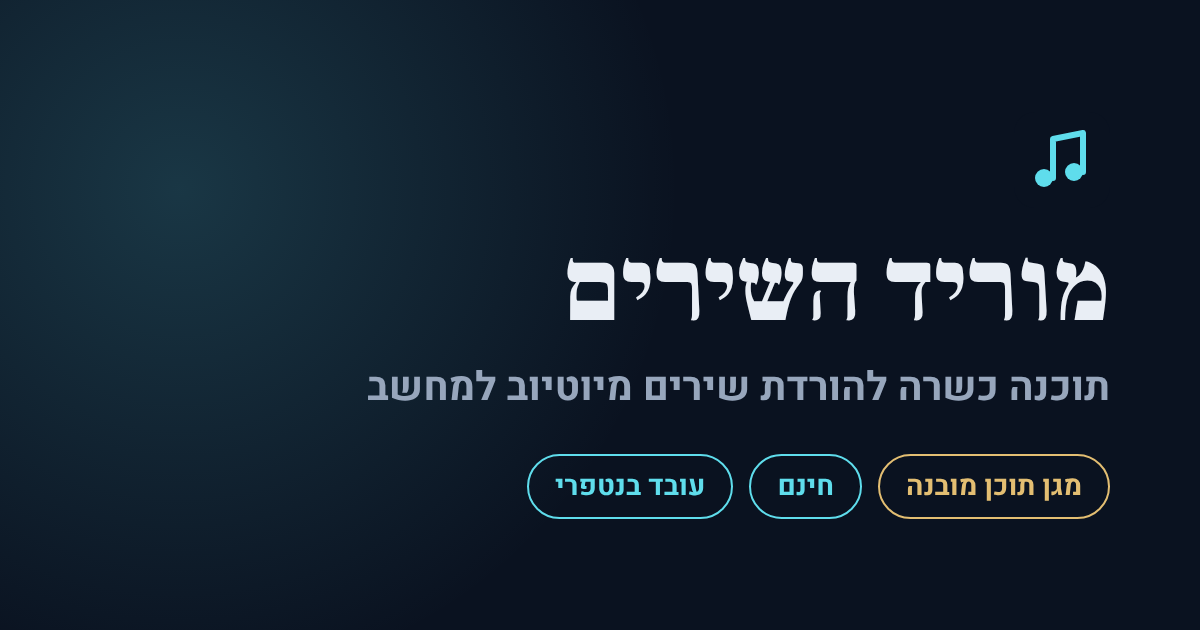
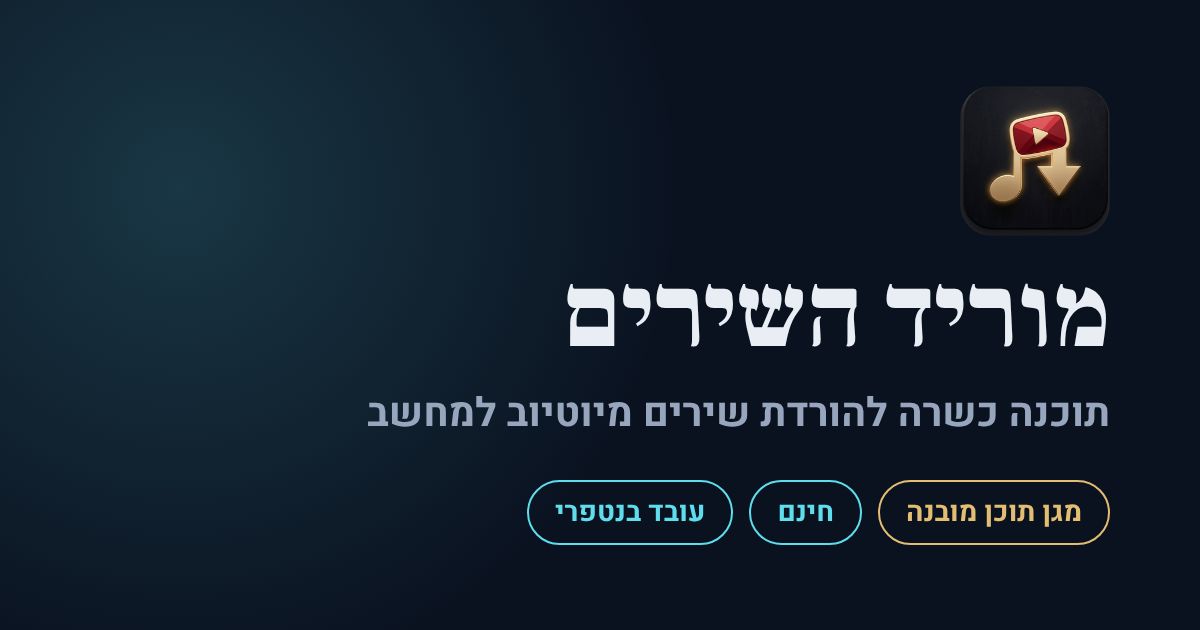
דף הנחיתה: הלוגו של התוכנה בסמל ובתמונת השיתוף
Claude-Session: https://claude.ai/code/session_018MStaUMW1ZQf8AoUs6Dhf3

Changed region(s): [[0.3083, 0.3921, 0.925, 0.7238], [0.4317, 0.7238, 0.925, 0.8746], [0.8017, 0.1508, 0.925, 0.3317]]

diff --git a/index.html b/index.html
@@ -22,7 +22,11 @@
 <meta property="og:image:height" content="630">
 <meta name="twitter:card" content="summary_large_image">
 
-<link rel="icon" href="favicon.svg" type="image/svg+xml">
+<link rel="icon" href="favicon.ico" sizes="any">
+<link rel="icon" href="favicon-48.png" type="image/png" sizes="48x48">
+<link rel="icon" href="favicon-96.png" type="image/png" sizes="96x96">
+<link rel="icon" href="icon-192.png" type="image/png" sizes="192x192">
+<link rel="apple-touch-icon" href="apple-touch-icon.png">
 <link rel="preload" href="fonts/heebo-hebrew-400-normal.woff2" as="font" type="font/woff2" crossorigin>
 <link rel="preload" href="fonts/frank-ruhl-libre-hebrew-900-normal.woff2" as="font" type="font/woff2" crossorigin>
 
@@ -38,6 +42,8 @@
   "inLanguage": "he",
   "softwareVersion": "10.9.1",
   "url": "https://hanyna.github.io/morid/",
+  "image": "https://hanyna.github.io/morid/logo.png",
+  "screenshot": "https://hanyna.github.io/morid/og.png",
   "downloadUrl": "https://github.com/hanyna/morid/releases/latest",
   "offers": { "@type": "Offer", "price": "0", "priceCurrency": "ILS" },
   "author": { "@type": "Person", "name": "חנינה" }
@@ -101,7 +107,7 @@ a{color:var(--cyan)}
 .top{border-bottom:1px solid var(--rule)}
 .top .wrap{display:flex;align-items:center;justify-content:space-between;height:68px}
 .brand{display:flex;align-items:center;gap:10px;text-decoration:none;color:var(--text);font:900 22px/1 var(--serif)}
-.brand img{width:32px;height:32px}
+.brand img{width:36px;height:36px;border-radius:8px}
 .top nav{display:flex;gap:26px}
 .top nav a{color:var(--muted);text-decoration:none;font-size:15px}
 .top nav a:hover{color:var(--text)}
@@ -110,6 +116,7 @@ a{color:var(--cyan)}
 .hero{padding:72px 0 88px;position:relative;overflow:hidden}
 .hero::before{content:"";position:absolute;inset:-30% -10% auto auto;width:720px;height:720px;background:radial-gradient(closest-side,rgba(95,221,236,.10),transparent);pointer-events:none}
 .hero .wrap{display:grid;grid-template-columns:1.05fr 1fr;gap:56px;align-items:center;position:relative}
+.hero-logo{display:block;width:96px;height:96px;margin:0 0 22px;border-radius:22px;box-shadow:0 18px 40px -14px rgba(0,0,0,.8)}
 h1{font:900 clamp(38px,5.2vw,62px)/1.08 var(--serif);margin:0 0 22px;letter-spacing:-.5px}
 h1 small{display:block;font:700 clamp(19px,2vw,23px)/1.4 var(--sans);color:var(--muted);letter-spacing:0;margin-top:16px}
 .lede{font-size:19px;color:#C9D3E1;max-width:33em;margin:0 0 32px}
@@ -241,7 +248,7 @@ footer a{color:var(--muted)}
 
 <header class="top">
   <div class="wrap">
-    <a class="brand" href="./"><img src="favicon.svg" alt="" width="32" height="32">מוריד השירים</a>
+    <a class="brand" href="./"><img src="favicon-96.png" alt="הלוגו של מוריד השירים" width="36" height="36">מוריד השירים</a>
     <nav aria-label="ניווט ראשי">
       <a href="#features">יכולות</a>
       <a href="#how">איך זה עובד</a>
@@ -255,6 +262,7 @@ footer a{color:var(--muted)}
   <div class="hero">
     <div class="wrap">
       <div>
+        <img class="hero-logo" src="logo.png" alt="מוריד השירים – תוכנה להורדת שירים מיוטיוב למחשב" width="96" height="96">
         <h1>מוריד השירים
           <small>תוכנה כשרה להורדת שירים מיוטיוב למחשב</small>
         </h1>
